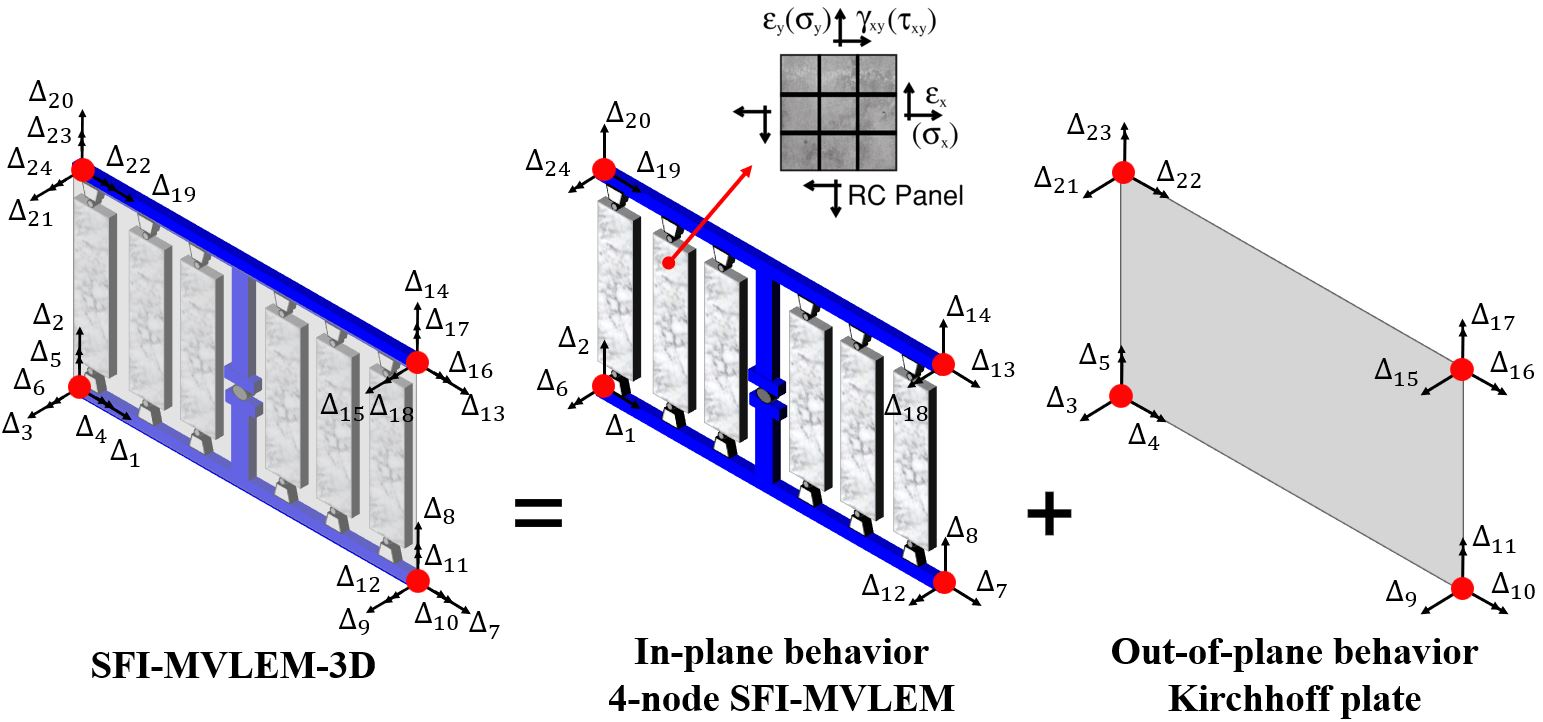
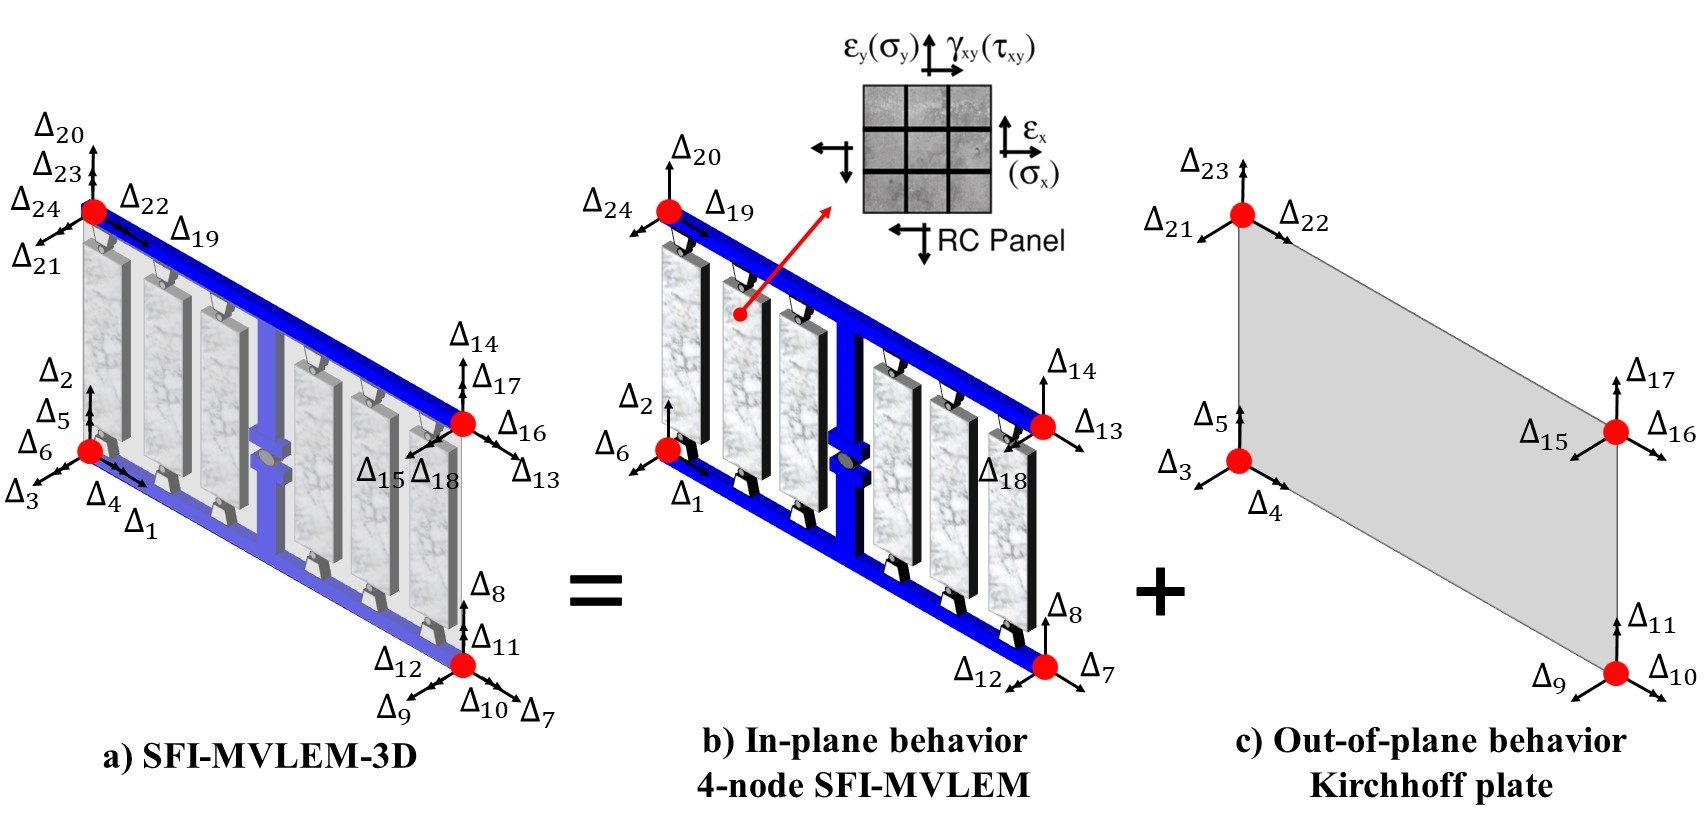
adding TUC to SFI_MVLEM_3D

diff --git a/source/user/manual/model/elements/SFI_MVLEM_3D.rst b/source/user/manual/model/elements/SFI_MVLEM_3D.rst
@@ -1,4 +1,4 @@
-.. _SFI_MVLEM_3D::
+c.. _SFI_MVLEM_3D::
 
 SFI-MVLEM-3D Element
 ^^^^^^^^^^^^^^^^
@@ -61,21 +61,29 @@ The following recorders are available with the SFI-MVLEM-3D element.
 Example
 #######
 
-Specimen TUB (Beyer et al. 2008) is analyzed using the SFI-MVLEM-3D. Figure 2a shows the photo of the test specimen and the multidirectional displacement pattern applied at the top of the wall, while Figure 2b-c show the SFI-MVLEM-3D model of specimen TUB.
+Specimen TUC (Constantin 2016) is analyzed using the SFI-MVLEM-3D. Figure 2a shows the photo of the test specimen and the multidirectional displacement pattern applied at the top of the wall, while Figure 2b-c show the SFI-MVLEM-3D model of specimen TUC.
 
-.. figure:: SFI_MVLEM_3D_TUB_model.jpg
+.. figure:: SFI_MVLEM_3D_TUC_model.jpg
 	:align: center
 	:figclass: align-center
 
 	**Figure 2: SFI-MVLEM-3D Model of Specimen TUB**
 
-Figure 3 compares experimentally measured and analytically predicted load deformation behavior of the specimen TUB in E-W, N-S, and diagonal loading directions. The model provides accurate predictions of the lateral load capacity and the stiffness under cyclic loading in loading directions parallel to the principal axes of the cross-section (E-W, N-S direction). Analysis results overestimate the lateral load capacity in diagonal loading directions due to plane-sections-remain-plane assumption implemented in the model formulation that cannot capture pronounced shear lag effect observed in the test specimen.
+Figure 3 compares measured and simulated load-deformation responses for specimen TUC in E-W (Figure 3a) and N-S (Figure 3b) directions, as well as for diagonal cycles between positions E-F (Figure 3c) and G-H (Figure 3d). As results comparisons illustrate, the SFI-MVLEM-3D predicts well the overall strength and stiffness of the wall for loading cycles in E-W (Figure 3a) and N-S (Figure 3b) directions where the behavior of the specimen was primarily in the linear elastic range since the maximum magnitude of displacements applied at the top of the wall corresponded to a drift level of only 1.0%. For diagonal cycles (Figure 3c and Figure 3d), the model slightly overestimates the initial stiffness of the specimens, but accurately captures the overall SRSS lateral load resisted by the specimen, with the only exception that the lateral load is overestimated during the last loading cycles corresponding to the largest drift of 2.5%. The cyclic stiffness and pinching characteristics of the wall are well-predicted by the model.
 
-.. figure:: SFI_MVLEM_3D_TUB_results.jpg
+.. figure:: SFI_MVLEM_3D_TUC_results_LD.jpg
 	:align: center
 	:figclass: align-center
 
 	**Figure 3: Experimental vs. SFI-MVLEM-3D Load-Deformation Response of Specimen TUB**
+
+Side-by-side comparison of the analytically-obtained vertical strains (Figure 4a-c.1) and shear stresses along wall base (Figure 4a-c.2) demonstrates the capability of the model to capture the interaction between the axial tensile/compressive strains (and resulting stresses) and the in-plane shear stresses developing in the panel-fibers of the SFI-MVLEM-3D elements. Results presented in Figure 4 clearly illustrate that for each of the loading positions, the majority of the shear force demand imposed at the wall is resisted by the regions (panel-fibers) that are subjected to axial compression, while little-to-no shear stress occurs in the panel-fibers subjected to tension. Commonly used fiber-based models that treat axial/flexural and shear behaviors as uncoupled (e.g., displacement based element in OpenSees, shear wall element in Perform 3D) cannot capture this highly non-uniform distribution of shear demands across the wall cross-section and may be subject to considerable bias in predicting shear demands developing in the piers (flanges, web) of non-planar walls subjected to multi-directional seismic actions.
+
+.. figure:: SFI_MVLEM_3D_TUC_results_strain_stress.jpg
+	:align: center
+	:figclass: align-center
+
+	**Figure 4: Vertical strains (1) and shear stresses (2) at the base of wall specimen TUC at: a) Position E, b) Position G, and c) Position C. Positive (compressive) strains are shown at the outer face of the wall; negative (tensile) strains are plotted at the inner face of the wall. A magnitude scale for strains or stresses is provided in the upper left corner of each plot**
 
 References
 ##########
